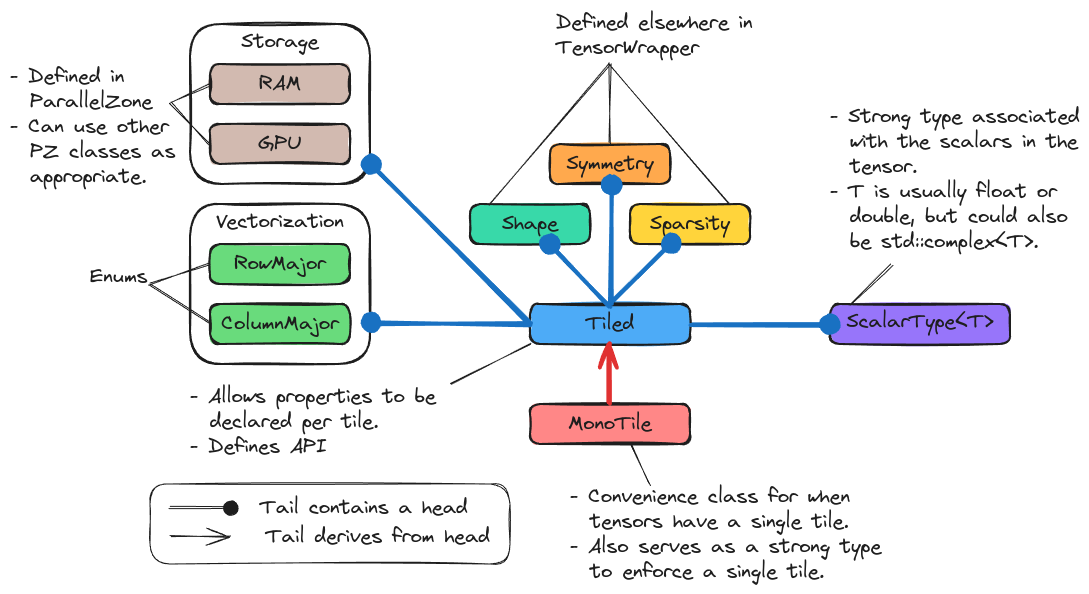
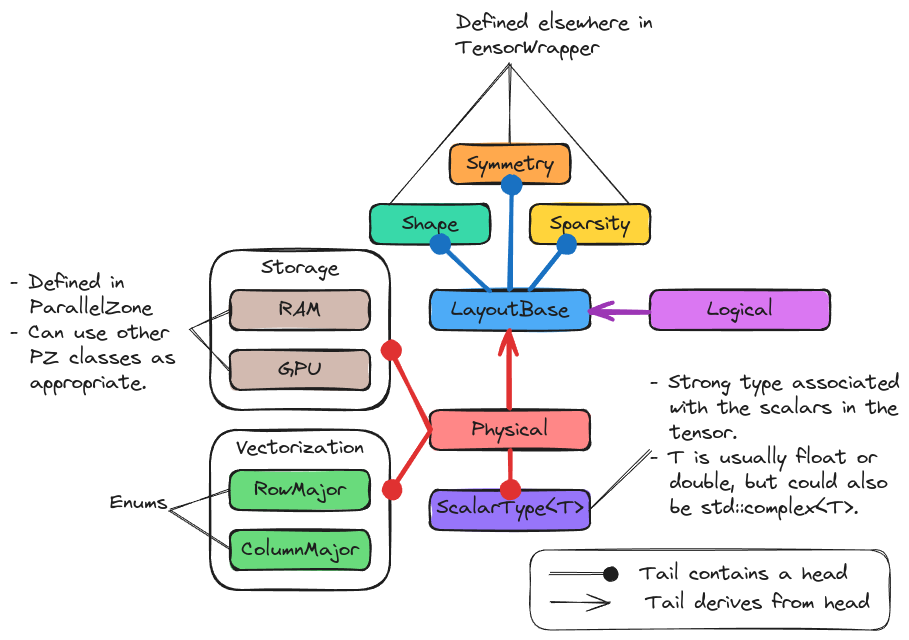
update design

diff --git a/docs/source/developer/design/layout.rst b/docs/source/developer/design/layout.rst
@@ -21,28 +21,30 @@ Designing the Layout Component
 This page records the process of designing the layout component of
 TensorWrapper.
 
+.. note::
+
+   This page needs revisited when more features are implemented. In particular:
+   - Should C++ type representation live here or in the allocator?
+   - Similar question for the hardware backend.
+   - Tiled vs. not tiled is actually covered by looking at the shape. If it's
+     nested it's tiled (in a general sense). At the very least tiled could be
+     a class derived from physical
+
 **************************
 What is a (tensor) layout?
 **************************
 
-Tensors contain (hyper-) rectangular arrays of elements. The user interacts with
-the tensor object as if those arrays really exist; however, this is usually a
-software abstraction since modern memory is vector-based. Point being, providing
-users with software abstractions for tensors can require a fair bit of mental
-gymnastics to actually map the abstraction to the hardware. The layout
-component is responsible for representing those mental gymnastics.
+Tensors contain (hyper-) rectangular arrays of elements. A layout describes
+the properties of the (hyper-) rectangular array including its shape, symmetry,
+and sparsity. Layouts can be logical (how the user wants to interact with the
+tensor class) or physical (how the tensor is actually stored in memory).
 
 *********************************
 Why do we need a (tensor) layout?
 *********************************
 
-As mentioned in the previous section, only scalars and vectors map trivially to
-hardware (and even for vectors the user may opt for non-trivial layouts). The
-layout describes the mapping process, and will have substantial performance
-consequences as certain layouts favor certain operations. While we strive to
-ultimately isolate the user from the layout details, for the foreseeable
-future users will likely want some control over the layout, thus we need a
-user-friendly abstraction to represent the layout.
+The layout class is needed to couple the shape, symmetry, and sparsity together.
+Derived classes are needed to distinguish the logical and physical layouts.
 
 ****************************
 Tensor Layout Considerations
@@ -142,16 +144,9 @@ Layout Design
    The major pieces of the layout component.
 
 :numref:`fig_layout` illustrates the major pieces of the layout component. The
-base class of the component is the ``Tiled`` class. We have opted to
-make ``Tiled`` the base because a non-tiled layout can be viewed as having
-a single tile, whereas viewing a legitimately tiled layout as a single tile may
-hide information. Consistent with the :ref:`l_reshape` consideration, the
-``Tiled`` object contains ``Shape``, ``Symmetry``, and ``Sparsity``
-objects. To address the :ref:`l_representation` consideration the
-``Tiled`` class holds the desired representation per inner-most tile.
-Similarly, to address :ref:`l_ownership`, ``Tiled`` holds ParallelZone
-objects per tile to denote the process, memory bank, or accelerator where the
-tile lives.
+base class of the component is the ``LayoutBase`` class. This class defines the
+common API and contains ``Shape``, ``Symmetry``, and ``Sparsity``
+objects.
 
 *************
 Proposed APIs
